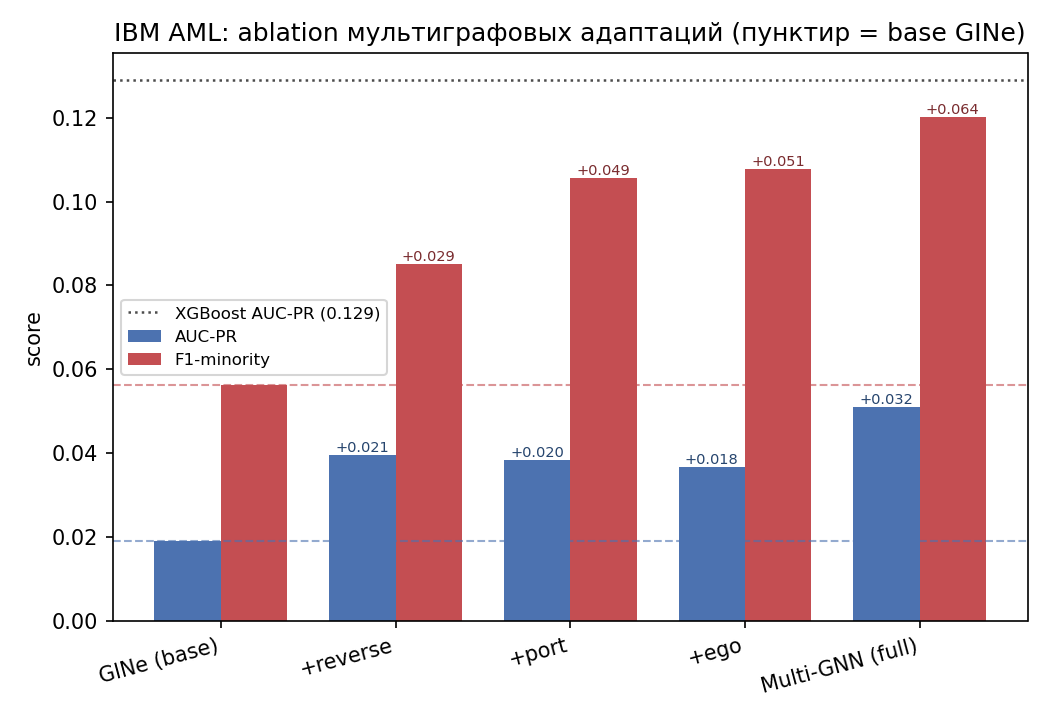
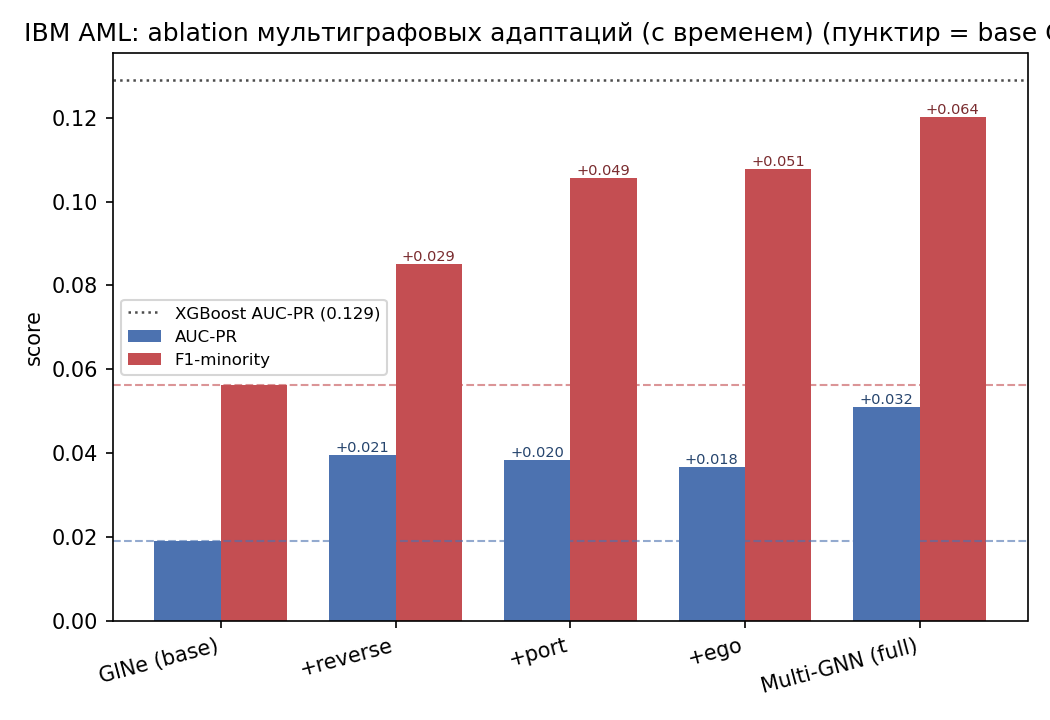
docs: двухрежимные ablation-сводки (с временем / без) после no-time перепрогона

Changed region(s): [[0.0305, 0.0306, 1.0, 0.0611]]

diff --git a/results/ibm_comparison_notime.md b/results/ibm_comparison_notime.md
@@ -1,0 +1,13 @@
+# IBM AML HI-Small (test): бейзлайн + ablation Multi-GNN (без norm_time)
+
+Главные метрики: AUC-PR и F1 (позитив = laundering). Ablation: вклад
+адаптаций reverse / port / ego поверх базовой GINe (RQ2).
+
+| variant | auc_pr | f1 | recall_at_precision_90 | recall |
+|---|---|---|---|---|
+| XGBoost | 0.2398 | 0.2976 | 0.0217 | 0.3103 |
+| GINe (base) | 0.0442 | 0.1199 | 0.0000 | 0.1357 |
+| +reverse | 0.0255 | 0.0510 | 0.0000 | 0.5028 |
+| +port | 0.0354 | 0.1002 | 0.0000 | 0.1051 |
+| +ego | 0.0491 | 0.1245 | 0.0000 | 0.1418 |
+| Multi-GNN (full) | 0.0125 | 0.0332 | 0.0000 | 0.2297 |

diff --git a/results/ibm_comparison.md b/results/ibm_comparison.md
@@ -1,4 +1,4 @@
-# IBM AML HI-Small (test): бейзлайн + ablation Multi-GNN
+# IBM AML HI-Small (test): бейзлайн + ablation Multi-GNN (с norm_time)
 
 Главные метрики: AUC-PR и F1 (позитив = laundering). Ablation: вклад
 адаптаций reverse / port / ego поверх базовой GINe (RQ2).